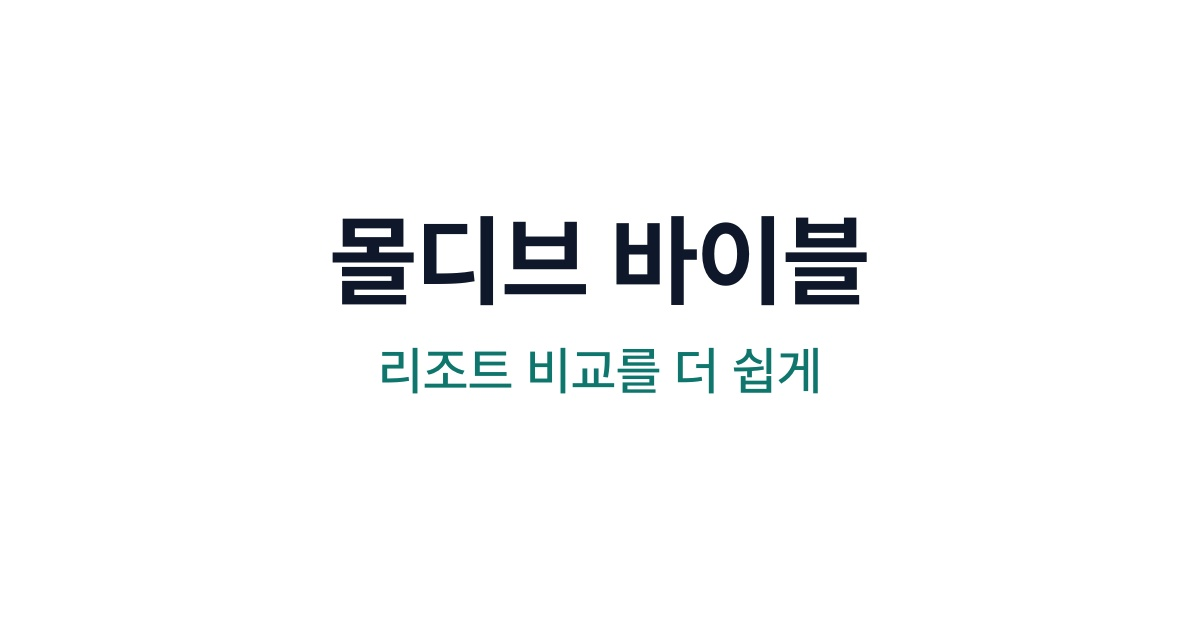
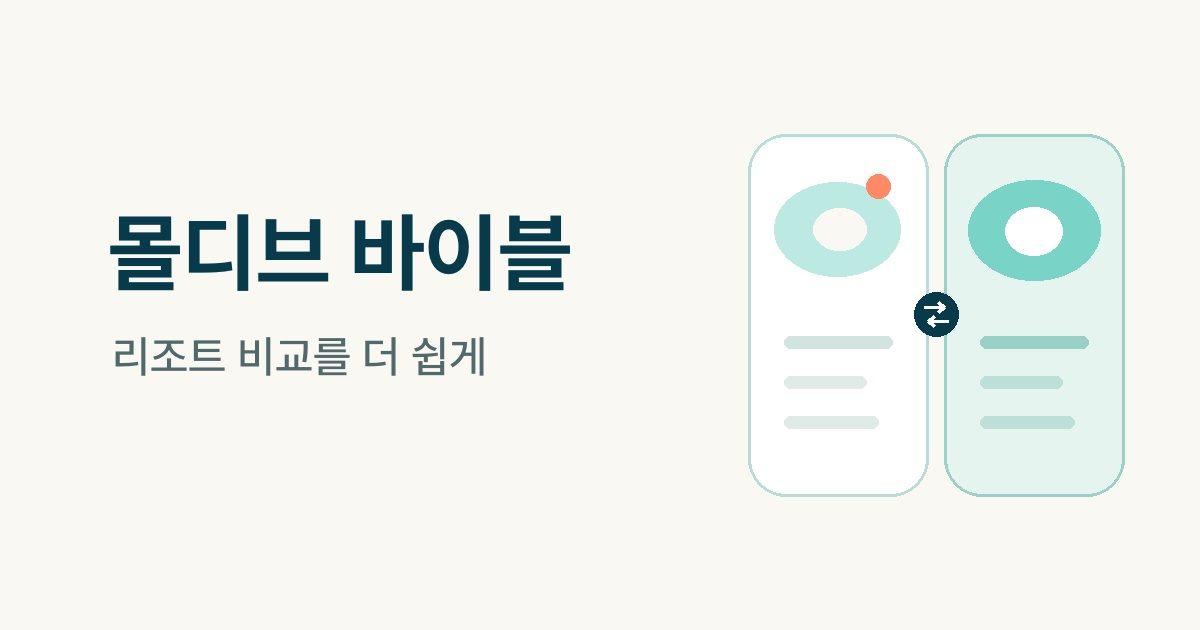
Add minimal lagoon comparison motif to OG card

Changed region(s): [[0.0925, 0.2111, 0.9558, 0.8143], [0.6475, 0.7841, 0.74, 0.8143], [0.6167, 0.754, 0.6475, 0.7841]]

diff --git a/index.html b/index.html
@@ -26,12 +26,12 @@
       property="og:description"
       content="예산·이동수단·객실 유형으로 찾고, 최대 3개 리조트를 나란히 비교하세요."
     />
-    <meta property="og:image" content="https://www.maldivesbible.com/og-image.jpg?v=20260711-4" />
-    <meta property="og:image:secure_url" content="https://www.maldivesbible.com/og-image.jpg?v=20260711-4" />
+    <meta property="og:image" content="https://www.maldivesbible.com/og-image.jpg?v=20260711-5" />
+    <meta property="og:image:secure_url" content="https://www.maldivesbible.com/og-image.jpg?v=20260711-5" />
     <meta property="og:image:type" content="image/jpeg" />
     <meta property="og:image:width" content="1200" />
     <meta property="og:image:height" content="630" />
-    <meta property="og:image:alt" content="흰 배경에 몰디브 바이블과 리조트 비교를 더 쉽게 문구" />
+    <meta property="og:image:alt" content="몰디브 바이블과 리조트 비교를 더 쉽게 문구, 추상 라군 비교 카드" />
     <meta property="og:url" content="https://www.maldivesbible.com/" />
     <meta property="og:site_name" content="몰디브 바이블" />
     <meta name="twitter:card" content="summary_large_image" />
@@ -40,8 +40,8 @@
       name="twitter:description"
       content="예산·이동수단·객실 유형으로 찾고, 최대 3개 리조트를 나란히 비교하세요."
     />
-    <meta name="twitter:image" content="https://www.maldivesbible.com/og-image.jpg?v=20260711-4" />
-    <meta name="twitter:image:alt" content="흰 배경에 몰디브 바이블과 리조트 비교를 더 쉽게 문구" />
+    <meta name="twitter:image" content="https://www.maldivesbible.com/og-image.jpg?v=20260711-5" />
+    <meta name="twitter:image:alt" content="몰디브 바이블과 리조트 비교를 더 쉽게 문구, 추상 라군 비교 카드" />
     <script
       async
       src="https://pagead2.googlesyndication.com/pagead/js/adsbygoogle.js?client=ca-pub-6227921544579562"
@@ -74,7 +74,7 @@
           "url": "https://www.maldivesbible.com/",
           "logo": "https://www.maldivesbible.com/brand/maldives-bible-logo.png"
         },
-        "image": "https://www.maldivesbible.com/og-image.jpg?v=20260711-4",
+        "image": "https://www.maldivesbible.com/og-image.jpg?v=20260711-5",
         "keywords": [
           "몰디브 신혼여행 처음 준비",
           "몰디브 리조트 선택 기준",

diff --git a/scripts/generate-og-image.py b/scripts/generate-og-image.py
@@ -11,9 +11,15 @@ FONT_BOLD = ROOT / "scripts" / "assets" / "fonts" / "pretendard" / "Pretendard-B
 FONT_MEDIUM = ROOT / "scripts" / "assets" / "fonts" / "pretendard" / "Pretendard-Medium.otf"
 CANVAS_SIZE = (1200, 630)
 
-BACKGROUND = (255, 255, 255)
-TITLE_COLOR = (15, 23, 42)
-TAGLINE_COLOR = (15, 118, 110)
+BACKGROUND = (250, 248, 242)
+TITLE_COLOR = (7, 59, 76)
+TAGLINE_COLOR = (82, 105, 107)
+TEAL = (15, 118, 110)
+MINT = (188, 234, 226)
+MINT_STRONG = (121, 211, 199)
+MINT_PALE = (230, 244, 240)
+CARD_BORDER = (183, 221, 214)
+CORAL = (255, 138, 101)
 
 
 def font(path: Path, size: int) -> ImageFont.FreeTypeFont:
@@ -26,23 +32,53 @@ def generate() -> Image.Image:
     image = Image.new("RGB", CANVAS_SIZE, BACKGROUND)
     draw = ImageDraw.Draw(image)
 
-    title_font = font(FONT_BOLD, 100)
-    tagline_font = font(FONT_MEDIUM, 52)
+    title_font = font(FONT_BOLD, 86)
+    tagline_font = font(FONT_MEDIUM, 44)
 
     draw.text(
-        (CANVAS_SIZE[0] // 2, 260),
+        (108, 252),
         "몰디브 바이블",
         font=title_font,
         fill=TITLE_COLOR,
-        anchor="mm",
+        anchor="lm",
     )
     draw.text(
-        (CANVAS_SIZE[0] // 2, 370),
+        (112, 356),
         "리조트 비교를 더 쉽게",
         font=tagline_font,
         fill=TAGLINE_COLOR,
-        anchor="mm",
+        anchor="lm",
     )
+
+    left_card = (748, 134, 928, 496)
+    right_card = (944, 134, 1124, 496)
+    draw.rounded_rectangle(left_card, radius=38, fill=(255, 255, 255), outline=CARD_BORDER, width=3)
+    draw.rounded_rectangle(right_card, radius=38, fill=MINT_PALE, outline=(157, 209, 199), width=3)
+
+    draw.ellipse((774, 182, 900, 276), fill=MINT)
+    draw.ellipse((813, 208, 866, 250), fill=BACKGROUND)
+    draw.ellipse((866, 174, 890, 198), fill=CORAL)
+
+    draw.ellipse((968, 180, 1100, 280), fill=MINT_STRONG)
+    draw.ellipse((1005, 207, 1062, 255), fill=(255, 255, 255))
+
+    for x1, x2, y, color in (
+        (784, 892, 336, (210, 228, 224)),
+        (784, 866, 376, (224, 235, 232)),
+        (784, 878, 416, (224, 235, 232)),
+        (980, 1088, 336, (154, 209, 199)),
+        (980, 1062, 376, (188, 223, 216)),
+        (980, 1074, 416, (188, 223, 216)),
+    ):
+        draw.rounded_rectangle((x1, y, x2, y + 12), radius=6, fill=color)
+
+    draw.ellipse((914, 292, 958, 336), fill=TITLE_COLOR)
+    draw.line((924, 307, 943, 307), fill=(255, 255, 255), width=3)
+    draw.line((938, 302, 944, 307), fill=(255, 255, 255), width=3)
+    draw.line((938, 312, 944, 307), fill=(255, 255, 255), width=3)
+    draw.line((948, 321, 929, 321), fill=(255, 255, 255), width=3)
+    draw.line((934, 316, 928, 321), fill=(255, 255, 255), width=3)
+    draw.line((934, 326, 928, 321), fill=(255, 255, 255), width=3)
     return image
 
 
